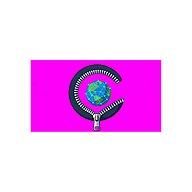
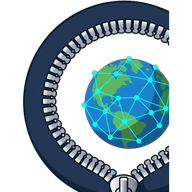
feat: use transparent C_Ziperr branding assets

diff --git a/public/index.html b/public/index.html
@@ -14,7 +14,7 @@ main{padding:12px;max-width:820px;margin:auto}
 textarea{width:100%;min-height:300px;font:12px ui-monospace,monospace;white-space:pre}
 pre{background:var(--bg);padding:8px;border-radius:8px;overflow:auto;max-height:200px;font-size:12px;margin:6px 0 0}
 dialog{background:var(--p);color:var(--t);border:1px solid var(--e);border-radius:12px;max-width:92vw;width:520px}
-.brand{display:flex;align-items:center;gap:8px}.brand img{width:32px;height:32px;border-radius:8px;background:#fff;padding:2px}.hero{background:#fff;border-radius:12px;text-align:center;padding:10px;margin-bottom:12px}.hero img{max-width:100%;height:150px;object-fit:contain}.hero small{display:block;color:#475069;margin-top:4px}.err{color:var(--e)}[hidden]{display:none!important}.chips button{padding:4px 12px;border-radius:99px}small,#ts{color:var(--m)}
+.brand{display:flex;align-items:center;gap:8px}.brand img{width:32px;height:32px;object-fit:contain;border-radius:8px;background:transparent;padding:0}.hero{background:var(--p);border:1px solid var(--b);border-radius:12px;text-align:center;padding:10px;margin-bottom:12px}.hero img{max-width:100%;height:150px;object-fit:contain}.hero small{display:block;color:var(--m);margin-top:4px}.err{color:var(--e)}[hidden]{display:none!important}.chips button{padding:4px 12px;border-radius:99px}small,#ts{color:var(--m)}
 header{flex-wrap:wrap}header nav{width:100%;overflow-x:auto;flex-wrap:nowrap!important;margin:0!important}header nav button{white-space:nowrap;flex:1}
 select{font:inherit;color:inherit;background:var(--p);border:1px solid var(--b);border-radius:8px;padding:8px 10px}
 #ed:not([hidden]){display:flex;flex-direction:column;height:calc(100dvh - 92px);background:#1e1e1e;color:#ccc}
